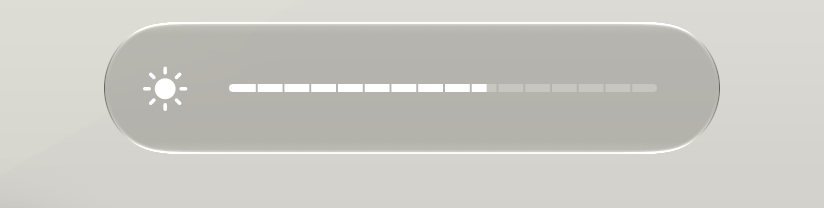
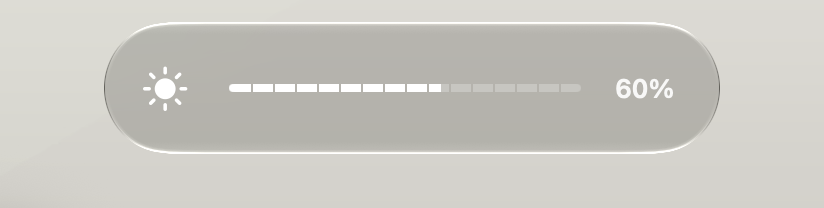
On-screen display: show the percentage, with a switch for it
On by default. In the macOS style the number takes the trailing end of the
capsule and the track shortens to whole points per segment; in the Windows
style the switch hides the number that was always there.

Changed region(s): [[0.3034, 0.4038, 0.6068, 0.4615], [0.7282, 0.375, 0.8192, 0.4904]]

diff --git a/Sources/TVControlForMac/UI/OsdSystemHud.swift b/Sources/TVControlForMac/UI/OsdSystemHud.swift
@@ -43,6 +43,14 @@ enum OsdSystemHudMetrics {
     static let emptyOpacity: Double = 0.25
     /// Right inset after the track (308 − 62.5 − 214).
     static let trackTrailingInset: CGFloat = 31.5
+
+    // The percentage is this app's addition (the system HUD has no number). It takes the
+    // trailing end of the row: the track gives up room for it and still ends on whole
+    // points per segment (176 pt, 11 pt each), so the segments stay crisp.
+    static let valueTrailingInset: CGFloat = 22.5
+    static let valueWidth: CGFloat = 37
+    static let valueGap: CGFloat = 10
+    static let trackWidthWithValue: CGFloat = 176
 }
 
 /// Measured motion of the system HUD (macOS 27.3, 60 fps recordings).
@@ -83,10 +91,10 @@ enum OsdSystemHudMotion {
 @Observable
 final class OsdSystemHudModel {
     enum Content: Equatable {
-        case level(value: Int, name: String?)
+        case level(value: Int, name: String?, showsValue: Bool)
         case message(title: String, subtitle: String, symbol: String)
     }
-    var content: Content = .level(value: 50, name: nil)
+    var content: Content = .level(value: 50, name: nil, showsValue: false)
     /// The glyph drawn for the level HUD. Diagnostics can swap in the speaker to compare
     /// pixel-for-pixel against the system volume HUD.
     var levelSymbol = "sun.max.fill"
@@ -494,16 +502,20 @@ struct OsdSystemHudView: View {
             ZStack(alignment: .topLeading) {
                 glyph
                     .position(x: OsdSystemHudMetrics.glyphCentreX, y: geo.size.height / 2)
+                let width = geo.size.width - OsdSystemHudMetrics.trackX - trailingInset
                 trailing
-                    .frame(width: geo.size.width - OsdSystemHudMetrics.trackX
-                           - OsdSystemHudMetrics.trackTrailingInset, alignment: .leading)
-                    .position(x: OsdSystemHudMetrics.trackX
-                              + (geo.size.width - OsdSystemHudMetrics.trackX - OsdSystemHudMetrics.trackTrailingInset) / 2,
-                              y: geo.size.height / 2)
+                    .frame(width: width, alignment: .leading)
+                    .position(x: OsdSystemHudMetrics.trackX + width / 2, y: geo.size.height / 2)
             }
         }
         .foregroundStyle(.white)
         .environment(\.colorScheme, .dark)
+    }
+
+    // With the percentage shown, the row runs closer to the capsule's end.
+    private var trailingInset: CGFloat {
+        if case .level(_, _, true) = model.content { return OsdSystemHudMetrics.valueTrailingInset }
+        return OsdSystemHudMetrics.trackTrailingInset
     }
 
     private var symbolName: String {
@@ -523,23 +535,39 @@ struct OsdSystemHudView: View {
 
     @ViewBuilder private var trailing: some View {
         switch model.content {
-        case .level(let value, let name):
-            // A name, when shown, is a caption above the track; the glyph and the track
-            // keep their positions relative to each other and the HUD keeps its size.
-            VStack(alignment: .leading, spacing: 6) {
-                if let name {
-                    Text(name)
-                        .font(.system(size: 12, weight: .semibold))
-                        .foregroundStyle(.white.opacity(0.85))
-                        .lineLimit(1)
-                        .truncationMode(.tail)
+        case .level(let value, let name, let showsValue):
+            let level = max(0, min(100, value))
+            let trackWidth = showsValue ? OsdSystemHudMetrics.trackWidthWithValue : OsdSystemHudMetrics.trackWidth
+            HStack(spacing: OsdSystemHudMetrics.valueGap) {
+                // A name, when shown, is a caption above the track; the glyph and the track
+                // keep their positions relative to each other and the HUD keeps its size.
+                VStack(alignment: .leading, spacing: 6) {
+                    if let name {
+                        Text(name)
+                            .font(.system(size: 12, weight: .semibold))
+                            .foregroundStyle(.white.opacity(0.85))
+                            .lineLimit(1)
+                            .truncationMode(.tail)
+                    }
+                    OsdLevelIndicator(level: Double(level) / 100)
+                        .frame(width: trackWidth, height: OsdSystemHudMetrics.trackHeight)
                 }
-                OsdLevelIndicator(level: Double(max(0, min(100, value))) / 100)
-                    .frame(width: OsdSystemHudMetrics.trackWidth, height: OsdSystemHudMetrics.trackHeight)
+                .frame(width: trackWidth, alignment: .leading)
+                // Without a name the track sits exactly on the centre line; with one, the pair
+                // is centred as a block, nudged up 1 pt for the caption's unused descender space.
+                .offset(y: name == nil ? 0 : -1)
+
+                if showsValue {
+                    // Centred on the capsule's own centre line whether or not there's a name.
+                    Text("\(level)%")
+                        .font(.system(size: 13, weight: .semibold))
+                        .monospacedDigit()
+                        .foregroundStyle(.white.opacity(0.9))
+                        .lineLimit(1)
+                        .fixedSize()
+                        .frame(width: OsdSystemHudMetrics.valueWidth, alignment: .trailing)
+                }
             }
-            // Without a name the track sits exactly on the centre line; with one, the pair is
-            // centred as a block, nudged up 1 pt for the caption's unused descender space.
-            .offset(y: name == nil ? 0 : -1)
         case .message(let title, let subtitle, _):
             VStack(alignment: .leading, spacing: 2) {
                 Text(title).font(Font(Self.titleFont))

diff --git a/Sources/TVControlForMac/UI/OsdDiagnostics.swift b/Sources/TVControlForMac/UI/OsdDiagnostics.swift
@@ -11,7 +11,7 @@ import AppKit
 ///   --osd-preview 30 --screen 1              on NSScreen.screens[1] (as "the TV's screen")
 ///   --osd-preview 30 --screen cursor         on the screen under the pointer
 ///   --osd-preview 30 --duration 3 --theme dark
-///   --osd-preview 25 --glyph speaker         draw the speaker, to compare with the volume HUD
+///   --osd-preview 25 --glyph speaker --percent off   the speaker and no number, to compare with the volume HUD
 ///   --osd-preview 25 --anchor fallback       ignore our menu bar item (sit where the volume HUD does)
 ///   --osd-preview 30 --stress 200            200 rapid shows mixing styles, modes, screens
 ///                                            and values, ending on a plain brightness show
@@ -21,7 +21,7 @@ struct OsdTestRequest {
         usage: --osd-preview [value] [--style mac|win] [--position 0-5] [--mode brightness|unpaired|disconnected]
                              [--name TEXT] [--screen primary|cursor|<index>] [--duration SECONDS]
                              [--theme system|light|dark] [--glyph speaker|SYMBOL]
-                             [--anchor item|fallback] [--stress COUNT]
+                             [--anchor item|fallback] [--percent on|off] [--stress COUNT]
         """
 
     var value = 50
@@ -34,6 +34,8 @@ struct OsdTestRequest {
     var theme: String?
     var glyph: String?
     var anchor: String?
+    /// The number next to the bar. Off for comparisons with the system HUD, which has none.
+    var percent = true
     var stress = 0
 
     init?(arguments: [String]) {
@@ -51,6 +53,7 @@ struct OsdTestRequest {
             case "--theme": guard let v = it.next() else { return nil }; theme = v
             case "--glyph": guard let v = it.next() else { return nil }; glyph = v
             case "--anchor": guard let v = it.next() else { return nil }; anchor = v
+            case "--percent": guard let v = it.next(), ["on", "off"].contains(v) else { return nil }; percent = v == "on"
             case "--stress": guard let v = it.next().flatMap(Int.init) else { return nil }; stress = v
             default:
                 guard let v = Int(arg) else { return nil }
@@ -71,13 +74,14 @@ struct OsdTestRequest {
         theme = info["theme"] as? String
         glyph = info["glyph"] as? String
         anchor = info["anchor"] as? String
+        percent = info["percent"] as? Bool ?? percent
         stress = info["stress"] as? Int ?? stress
     }
 
     // Distributed notifications only carry property-list values.
     var userInfo: [String: Any] {
         var info: [String: Any] = ["value": value, "style": style, "position": position, "mode": mode, "screen": screen,
-                                   "duration": duration, "stress": stress]
+                                   "duration": duration, "stress": stress, "percent": percent]
         if let name { info["name"] = name }
         if let theme { info["theme"] = theme }
         if let glyph { info["glyph"] = glyph }
@@ -121,6 +125,7 @@ extension OsdController {
         osd.position = request.position
         osd.timeoutSeconds = request.duration
         osd.showTvName = request.name != nil
+        osd.showPercentage = request.percent
         var screenId: String?
         switch request.screen {
         case "cursor":

diff --git a/Sources/TVControlForMac/UI/OsdController.swift b/Sources/TVControlForMac/UI/OsdController.swift
@@ -55,14 +55,16 @@ final class OsdController {
         let value = max(0, min(100, value))
         if osd.style == 0 {
             dismissPill()
-            systemHud.show(.level(value: value, name: showName ? tvName : nil), on: screen,
-                           timeout: osd.timeoutSeconds)
+            systemHud.show(.level(value: value, name: showName ? tvName : nil,
+                                  showsValue: osd.showPercentage),
+                           on: screen, timeout: osd.timeoutSeconds)
             return
         }
 
         systemHud.dismiss()
         model.mode = .brightness
         model.value = value
+        model.showsValue = osd.showPercentage
         model.name = showName ? tvName : nil
         let size = NSSize(width: Self.winWidth, height: showName ? Self.winHeightWithName : Self.winHeight)
         showPill(on: screen, position: osd.position, size: size, timeout: osd.timeoutSeconds)
@@ -277,6 +279,7 @@ final class OsdModel {
     enum Mode { case brightness, message }
     var mode: Mode = .brightness
     var value = 50
+    var showsValue = true
     var name: String?
     var title = ""
     var subtitle = ""
@@ -326,10 +329,12 @@ struct OsdView: View {
                     }
                 }
                 .frame(height: 5)
-                Text("\(model.value)")
-                    .font(.system(size: 14, weight: .semibold, design: .rounded))
-                    .monospacedDigit()
-                    .frame(minWidth: 28, alignment: .trailing)
+                if model.showsValue {
+                    Text("\(model.value)")
+                        .font(.system(size: 14, weight: .semibold, design: .rounded))
+                        .monospacedDigit()
+                        .frame(minWidth: 28, alignment: .trailing)
+                }
             }
         }
         .padding(.horizontal, 16)

diff --git a/Sources/TVControlForMac/Models/Models.swift b/Sources/TVControlForMac/Models/Models.swift
@@ -188,11 +188,14 @@ struct OsdSettings: Codable {
     var monitor: Int = 0
     var timeoutSeconds: Double = 1.6
     var showTvName: Bool = false
+    /// Whether the brightness is also written out as a number ("60%") next to the bar.
+    var showPercentage: Bool = true
     var showOnSchedule: Bool = false
 
     enum CodingKeys: String, CodingKey {
         case enabled = "Enabled", style = "Style", position = "Position", monitor = "Monitor"
         case timeoutSeconds = "TimeoutSeconds", showTvName = "ShowTvName", showOnSchedule = "ShowOnSchedule"
+        case showPercentage = "ShowPercentage"
     }
 
     init() {}
@@ -205,6 +208,7 @@ struct OsdSettings: Codable {
         monitor = try c.decodeIfPresent(Int.self, forKey: .monitor) ?? 0
         timeoutSeconds = try c.decodeIfPresent(Double.self, forKey: .timeoutSeconds) ?? 1.6
         showTvName = try c.decodeIfPresent(Bool.self, forKey: .showTvName) ?? false
+        showPercentage = try c.decodeIfPresent(Bool.self, forKey: .showPercentage) ?? true
         showOnSchedule = try c.decodeIfPresent(Bool.self, forKey: .showOnSchedule) ?? false
     }
 }

diff --git a/Sources/TVControlForMac/UI/Pages.swift b/Sources/TVControlForMac/UI/Pages.swift
@@ -319,6 +319,7 @@ struct OsdSettingsView: View {
                         .foregroundStyle(.secondary)
                         .frame(width: 40, alignment: .trailing)
                 }
+                ToggleRow("Show percentage", isOn: osd(\.showPercentage))
                 ToggleRow("Show TV name", isOn: osd(\.showTvName))
                 ToggleRow("Show when a schedule runs", isOn: osd(\.showOnSchedule))
             }
